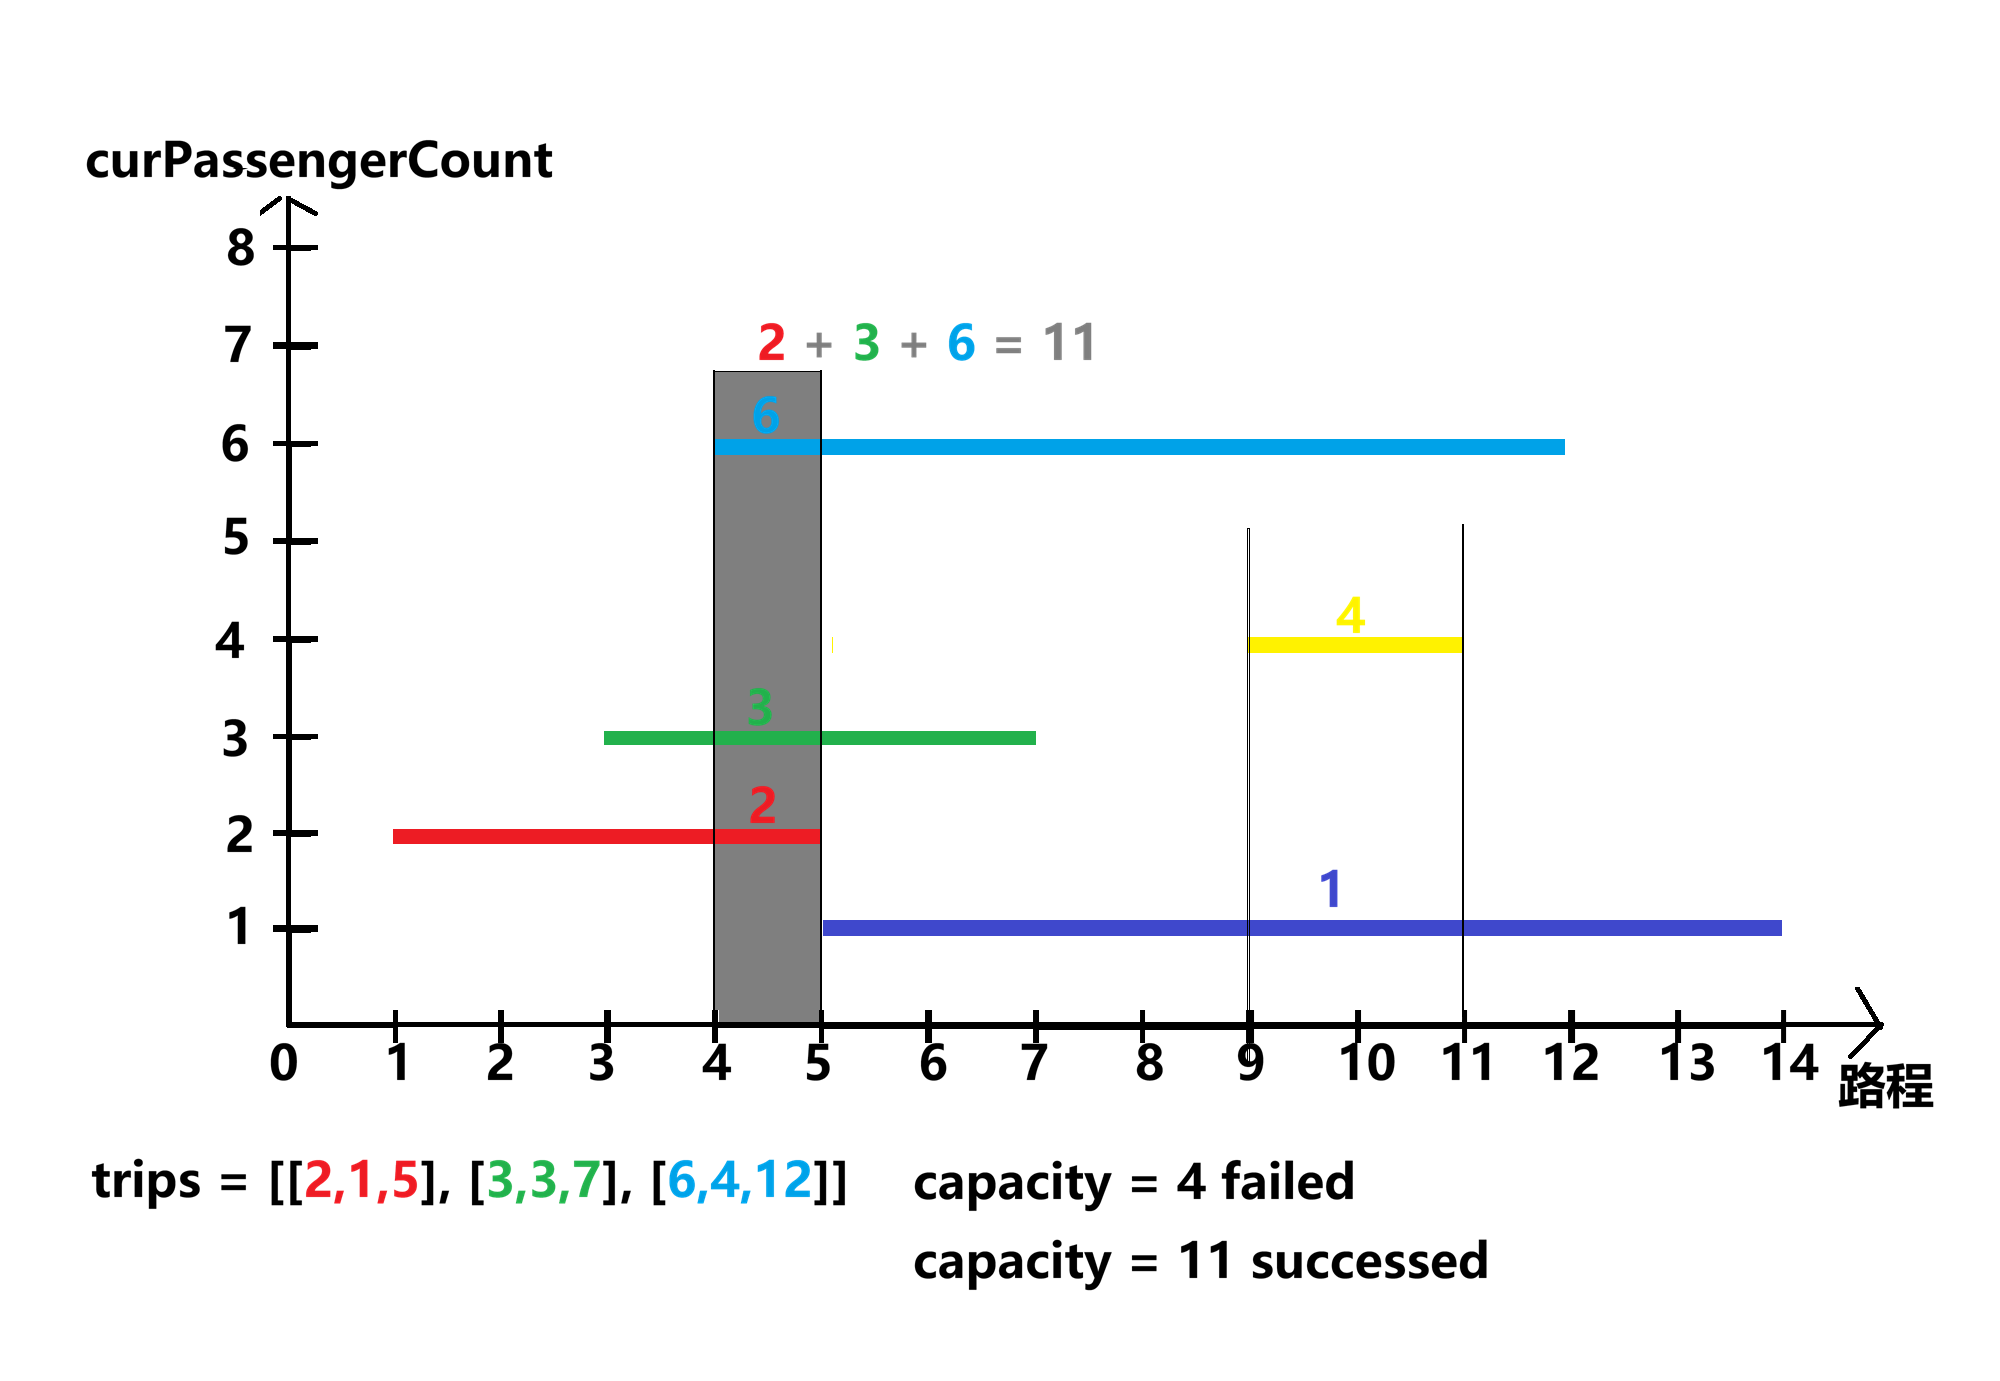
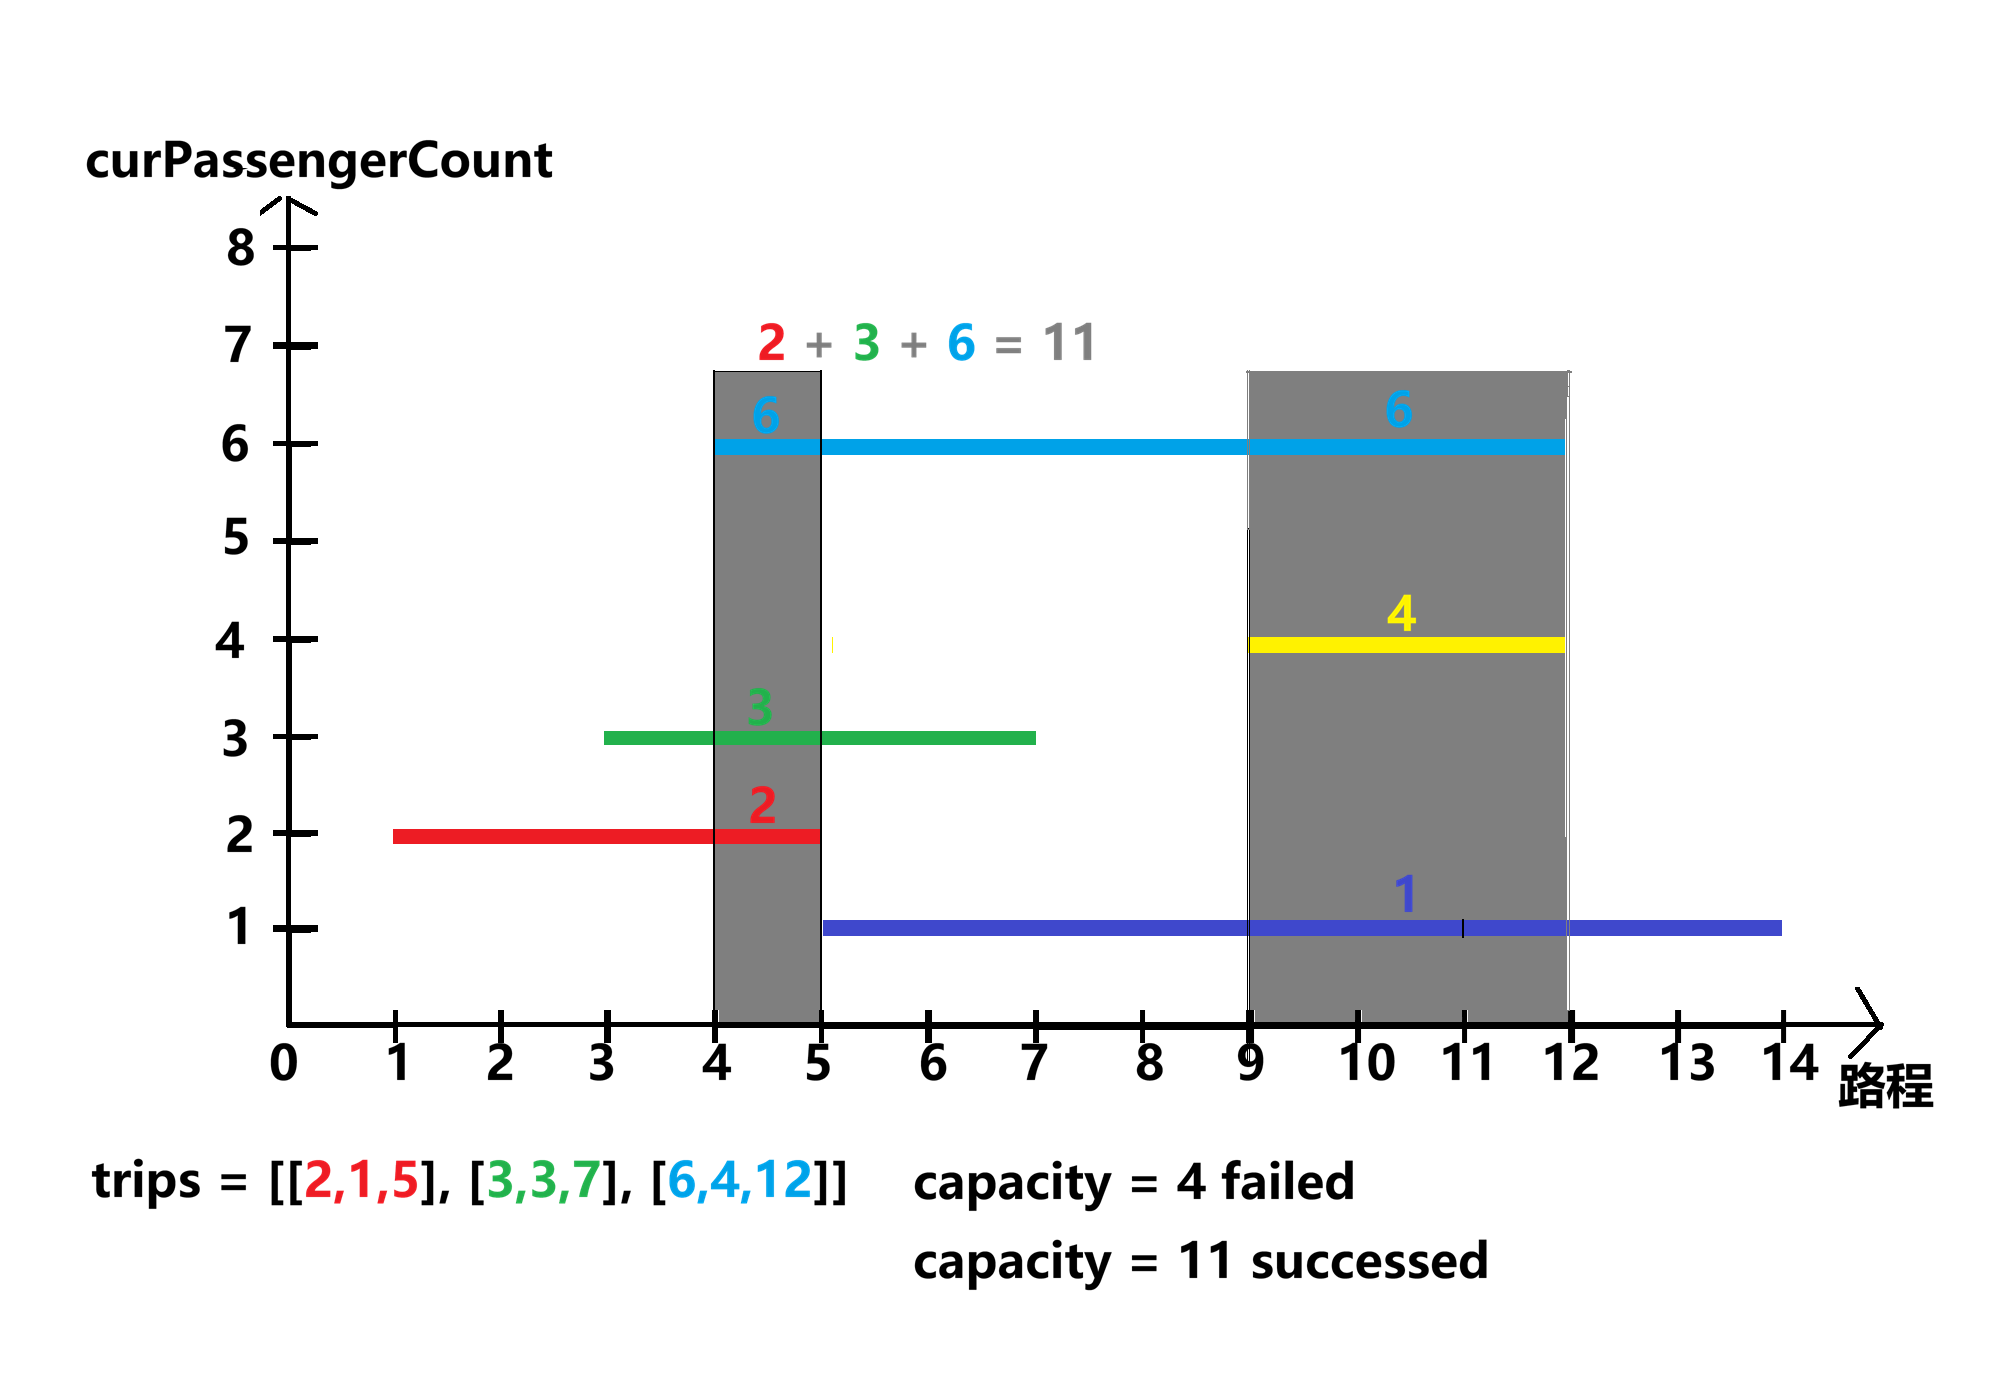
update

Changed region(s): [[0.62, 0.2491, 0.806, 0.7473]]

diff --git a/README.md b/README.md
@@ -1531,9 +1531,34 @@ public:
 };
 ```
 
+```c++
+class Solution {
+public:
+    int subarraySum(vector<int>& nums, int k) {
+        vector<int> prefix(nums.size() + 1, 0); // 多加1个空间，是为了prefix[0] = 0,方便计算
+        for (int i = 0; i < nums.size(); ++i) {
+            prefix[i+1] = prefix[i] + nums[i]; // 计算前缀和数组
+        }
 
+        int count = 0;
+        unordered_map<int, int> prefixCount; // 存储前缀和 -> 出现次数
+        prefixCount[0] = 1; // 关键：处理从开头开始的子数组（如 [0,1] 和为 k）
 
+        for (int i = 1; i < prefix.size(); ++i) {
+            // 查看是否存在前缀和为 (prefix[i] - k)
+            // 如果存在，说明有子数组和为 k
+            if (prefixCount.find(prefix[i] - k) != prefixCount.end()) {
+                count += prefixCount[prefix[i] - k];
+            }
 
+            // 将当前前缀和加入哈希表（用于后续判断）
+            prefixCount[prefix[i]]++;
+        }
+
+        return count;
+    }
+};
+```
 
 974 
 
@@ -1581,6 +1606,7 @@ public:
                 if(i == j) continue; //如果是同一趟旅行，忽略不计算
 
                 //[[2,1,5],[3,3,7]] 中 trips[i][2] == 5。  3 < 5 <= 7会导致旅程重叠
+                // 如上图中黄色旅行[4,9,12] 蓝色旅行[6,4,12] 需要将不等式写成 4(蓝) < 12(黄) <= 12(蓝)
                 if(trips[i][2] > trips[j][1] && trips[i][2] <= trips[j][2]){
                     curPassengerCount += trips[j][0];
                     if(curPassengerCount > capacity)
@@ -1590,6 +1616,40 @@ public:
             }
         }
         return true;
+    }
+};
+```
+
+![img](./差分/1094拼车差分.png)
+
+```c++
+class Solution {
+public:
+    bool carPooling(vector<vector<int>>& trips, int capacity) {
+        // diff[i] 表示：在第 i 个位置，乘客数量的“变化量”
+        // 上车 +x，下车 -x
+        vector<int> diff(1001, 0);
+
+        // 1⃣ 构建差分数组
+        for (int i = 0; i < trips.size(); ++i) {
+            int passengerCount = trips[i][0];
+            int from = trips[i][1];
+            int to = trips[i][2];
+            // 在 from 位置上车
+            diff[from] += passengerCount;
+            // 在 to 位置下车
+            diff[to] -= passengerCount;
+        }
+
+        // 2⃣ 还原每个时刻的车上人数，并检查是否超载
+        int curPassengerCount = 0;
+        for (int pos = 0; pos <= 1000; ++pos) {
+            curPassengerCount += diff[pos];  // 累加变化量
+            if (curPassengerCount > capacity) {
+                return false; // 任意时刻超载，拼车失败
+            }
+        }
+        return true; // 全程未超载
     }
 };
 ```
@@ -1609,7 +1669,171 @@ public:
 
 # 拓扑排序
 
-210 
+
+代码
+
+
+
+测试用例
+
+测试用例
+
+
+
+测试结果
+
+### [210. 课程表 II](https://leetcode.cn/problems/course-schedule-ii/)
+
+中等
+
+现在你总共有 `numCourses` 门课需要选，记为 `0` 到 `numCourses - 1`。给你一个数组 `prerequisites` ，其中 `prerequisites[i] = [ai, bi]` ，表示在选修课程 `ai` 前 **必须** 先选修 `bi` 。
+
+- 例如，想要学习课程 `0` ，你需要先完成课程 `1` ，我们用一个匹配来表示：`[0,1]` 。
+
+返回你为了学完所有课程所安排的学习顺序。可能会有多个正确的顺序，你只要返回 **任意一种** 就可以了。如果不可能完成所有课程，返回 **一个空数组** 。
+
+ 
+
+**示例 1：**
+
+```
+输入：numCourses = 2, prerequisites = [[1,0]]
+输出：[0,1]
+解释：总共有 2 门课程。要学习课程 1，你需要先完成课程 0。因此，正确的课程顺序为 [0,1] 。
+```
+
+**示例 2：**
+
+```
+输入：numCourses = 4, prerequisites = [[1,0],[2,0],[3,1],[3,2]]
+输出：[0,2,1,3]
+解释：总共有 4 门课程。要学习课程 3，你应该先完成课程 1 和课程 2。并且课程 1 和课程 2 都应该排在课程 0 之后。
+因此，一个正确的课程顺序是 [0,1,2,3] 。另一个正确的排序是 [0,2,1,3] 。
+```
+
+**示例 3：**
+
+```
+输入：numCourses = 1, prerequisites = []
+输出：[0]
+```
+
+ 
+
+**提示：**
+
+- `1 <= numCourses <= 2000`
+- `0 <= prerequisites.length <= numCourses * (numCourses - 1)`
+- `prerequisites[i].length == 2`
+- `0 <= ai, bi < numCourses`
+- `ai != bi`
+- 所有`[ai, bi]` **互不相同**
+
+```c++
+class Solution { //思路没问题，就是细节有错误
+public:
+    vector<int> findOrder(int numCourses, vector<vector<int>>& prerequisites) {
+        unordered_map<int, unordered_set<int>> table;
+        unordered_map<int, vector<int>> cln;
+
+
+        for(vector<int> edge : prerequisites){ //构建邻接表
+            if(table.find(edge[0]) == table.end()){
+                unordered_set<int> cur;
+                cur.insert(edge[1]);
+                table[edge[0]] = cur;
+            } else {
+                table[edge[0]].insert(edge[1]);
+            }
+            if(cln.find(edge[1]) == cln.end()){
+                vector<int> cur;
+                cur.push_back(edge[0]);
+                cln[edge[1]] = cur;
+            } else {
+                cln[edge[1]].push_back(edge[0]);
+            }
+
+        }
+
+        vector<int> seq;
+        int i = 0;
+        while(!table.empty()){
+            if(table.find(i) == table.end()){
+                seq.push_back(i);
+                for(auto next:cln[i]){
+                    table[next].erase(i);
+                    if(table[next].empty()){
+                        table.erase(next);
+                    }
+                }
+                cln.erase(i);
+            } else{
+                i++;
+                if(i == numCourses) i = 0;
+            }
+        }
+        return seq;
+    }
+};
+```
+
+GPT 修正版本
+chatGPT说：“我只做三件事
+❌ 不再用「while + i++ 瞎扫」
+✅ 显式维护「当前入度为 0 的点」
+❌ 不引入全新算法（仍然是你这套删除依赖的逻辑）”
+
+```c++
+class Solution {
+public:
+    vector<int> findOrder(int numCourses, vector<vector<int>>& prerequisites) {
+        unordered_map<int, unordered_set<int>> table; // course -> prerequisites
+        unordered_map<int, vector<int>> cln; // course -> next courses，用于清除next courses入度
+
+        // 建图
+        for (auto& edge : prerequisites) {
+            table[edge[0]].insert(edge[1]);
+            cln[edge[1]].push_back(edge[0]);
+        }
+
+        vector<int> seq;
+        queue<int> q; //✅加入辅助队列 显式维护「当前入度为 0 的点」（这个是gpt新加的）
+
+        // 找所有“当前没有前置依赖”的课程
+        for (int i = 0; i < numCourses; ++i) {
+            if (table.find(i) == table.end()) {
+                q.push(i);
+            }
+        }
+
+        while (!q.empty()) {
+            int cur = q.front();
+            q.pop();
+            seq.push_back(cur);
+
+            // cur 作为前置课程，影响后续课程
+            if (cln.count(cur)) {
+                for (int next : cln[cur]) {
+                    table[next].erase(cur); //next课程清除入度，curCourse->nextCourse
+                    if (table[next].empty()) {
+                        table.erase(next); //nextCourse入度为0，意味着可以选修了
+                        q.push(next);
+                    }
+                }
+            }
+        }
+
+        // 如果还有课程没被加入，说明有环
+        if (seq.size() != numCourses)
+            return {};
+
+        return seq;
+    }
+};
+
+```
+
+
 
 269 
 
@@ -1619,7 +1843,50 @@ public:
 
 # ！字符串
 
-20 
+### [20. 有效的括号](https://leetcode.cn/problems/valid-parentheses/)
+
+简单
+给定一个只包括 `'('`，`')'`，`'{'`，`'}'`，`'['`，`']'` 的字符串 `s` ，判断字符串是否有效。
+
+有效字符串需满足：
+
+1. 左括号必须用相同类型的右括号闭合。
+2. 左括号必须以正确的顺序闭合。
+3. 每个右括号都有一个对应的相同类型的左括号。 
+
+**示例 1：**
+
+**输入：**s = "()"
+
+**输出：**true 
+
+**提示：**
+
+- `1 <= s.length <= 104`
+- `s` 仅由括号 `'()[]{}'` 组成
+
+```c++
+class Solution {
+public:
+    bool isValid(string s) {
+        stack<char> st;
+        for(int i = 0; i < s.size(); ++i){
+            switch(s[i]){
+                case '(': st.push(')'); continue;
+                case '[': st.push(']'); continue;
+                case '{': st.push('}'); continue;
+                case ')': if(st.empty() || st.top() != ')') return false; st.pop(); continue;
+                case ']': if(st.empty() || st.top() != ']') return false; st.pop(); continue;
+                case '}': if(st.empty() || st.top() != '}') return false; st.pop(); continue;
+            }
+        }
+        if(st.empty()) return true;
+        return false;
+    }
+};
+```
+
+
 
 5 
 
